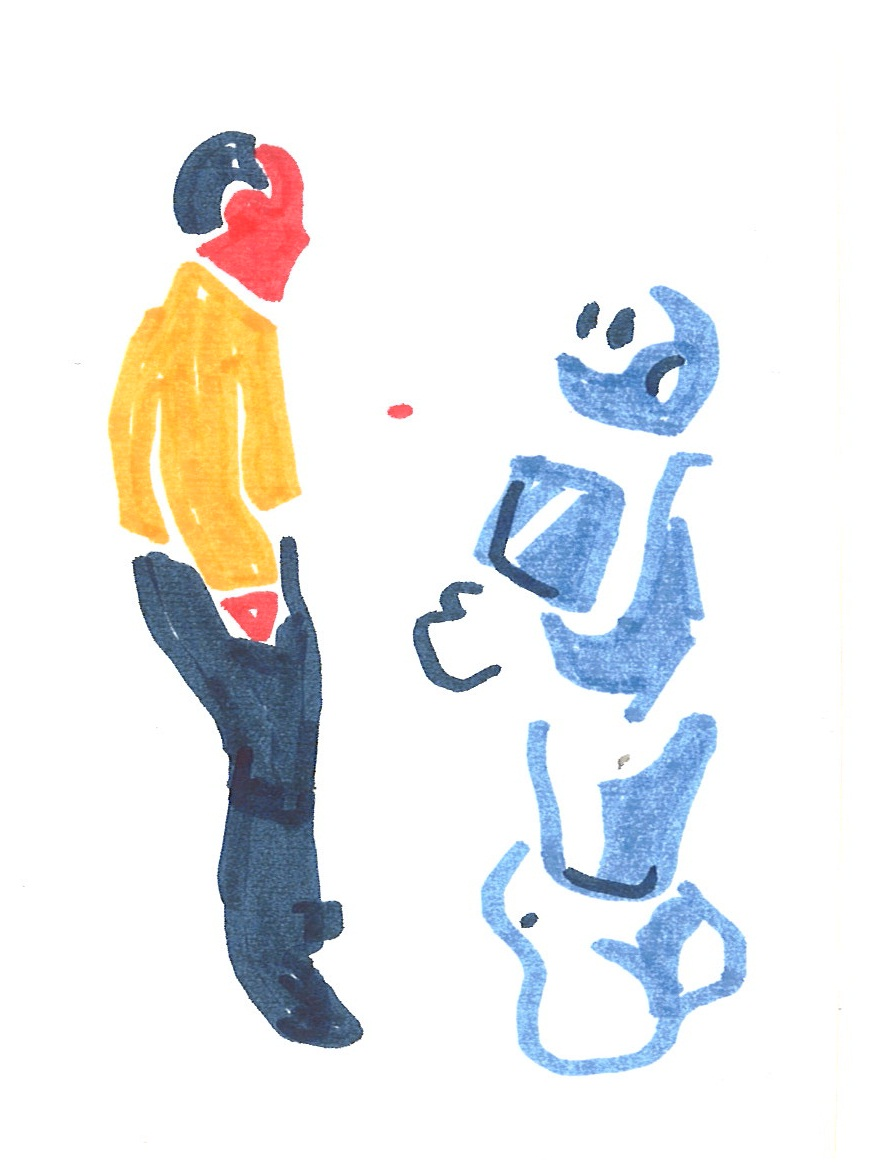
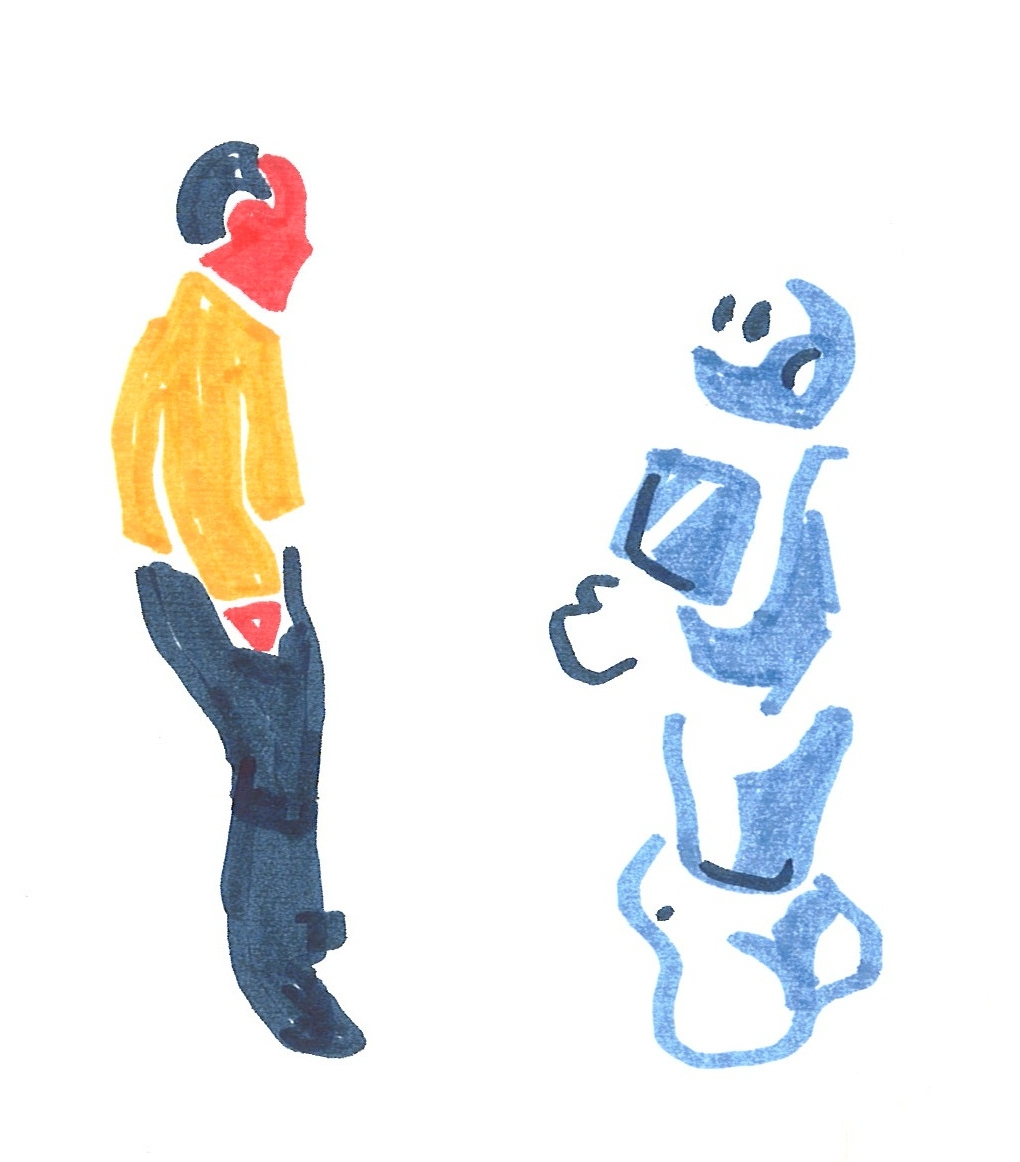
SitePerso: rework images

Changed region(s): [[0.4602, 0.2169, 0.8898, 0.9294], [0.092, 0.0929, 0.4295, 0.9294], [0.4295, 0.3408, 0.4602, 0.3718]]

diff --git a/index.html b/index.html
@@ -198,7 +198,7 @@
                     </p>
                 </div>
                 <div class="col-lg-5 col-sm-pull-6  col-sm-6">
-                    <img class="img-responsive" src="img/dessin-sample.jpg" alt="">
+                    <img class="img-responsive" src="img/dessin_sample_sienne.jpg" alt="" id="img_dessin">
                 </div>
             </div>
 

diff --git a/css/landing-page.css b/css/landing-page.css
@@ -22,7 +22,7 @@ h6 {
 }
 
 .lead {
-    font-size: 18px;
+    font-size: 22px;
     font-weight: 400;
 }
 
@@ -166,7 +166,7 @@ p.copyright {
 }
 
 #logo_telecom {
-    width: 40%;
+    width: 50%;
 }
 
 #img_selfie {
@@ -175,4 +175,8 @@ p.copyright {
 
 #img_masa {
     width: 60%;
+}
+
+#img_dessin {
+    width: 80%;
 }
